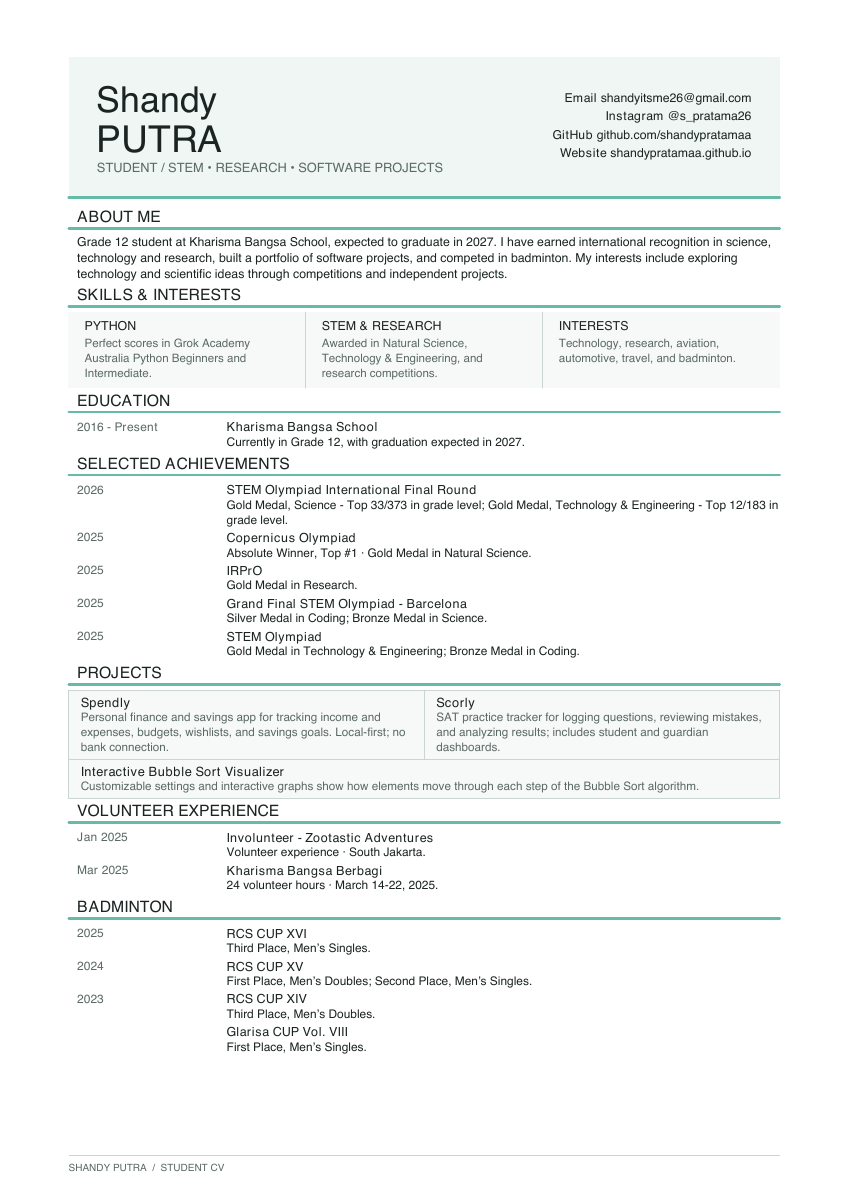
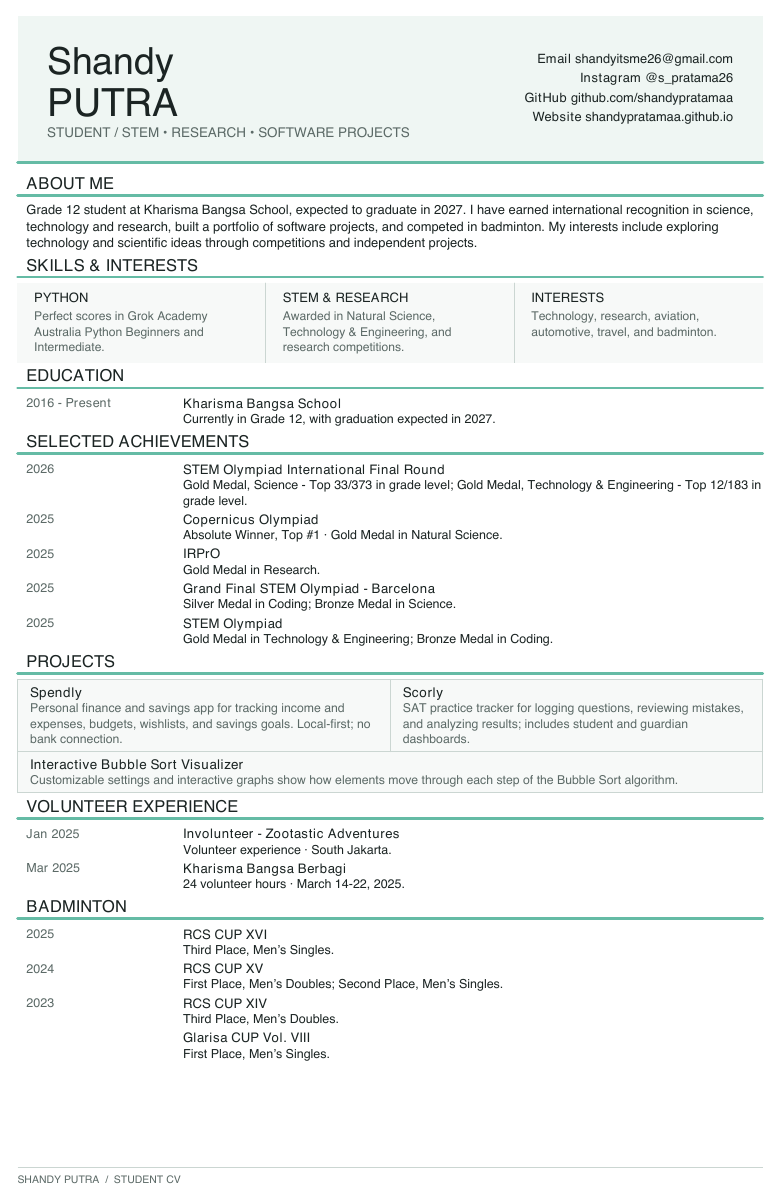
trimming CV file preview and download
Trimming white headers

Changed region(s): [[0.0308, 0.0308, 0.9846, 0.8633], [0.2154, 0.7708, 0.6462, 0.8942], [0.0308, 0.9558, 0.2769, 0.9867]]

diff --git a/src/styles.css b/src/styles.css
@@ -312,8 +312,8 @@ a.contact-card:hover,a.contact-card:focus-visible{background:var(--surface2)}
 .cv-preview-actions{display:flex;align-items:center;gap:12px;flex-shrink:0}
 .cv-preview-close{width:40px;height:40px;border:1px solid var(--line);background:transparent;color:var(--text);font:26px/1 Arial,sans-serif;cursor:pointer;transition:background .2s,color .2s}
 .cv-preview-close:hover{background:var(--teal);color:#07100f}
-.cv-preview-page{flex:1;min-height:0;overflow:auto;display:flex;justify-content:center;padding:22px;background:#1a2020}
-.cv-preview-page img{display:block;width:min(100%,680px);height:max-content;object-fit:contain;align-self:flex-start;background:#fff;box-shadow:0 12px 42px rgba(0,0,0,.35)}
+.cv-preview-page{flex:1;min-height:0;overflow:auto;display:flex;justify-content:center;padding:12px;background:#1a2020}
+.cv-preview-page img{display:block;width:min(100%,760px);height:max-content;object-fit:contain;align-self:flex-start;background:#fff;box-shadow:0 12px 42px rgba(0,0,0,.35)}
 @media(max-width:600px){.hero-actions{gap:9px;margin-top:25px}.hero-actions .button{min-width:0;min-height:44px;padding:0 13px;gap:18px;font-size:11px}.cv-preview-backdrop{padding:8px}.cv-preview-dialog{height:94svh}.cv-preview-header{align-items:flex-start;padding:15px 13px;gap:10px}.cv-preview-header h2{font-size:18px}.cv-preview-header .eyebrow{font-size:8px}.cv-preview-actions{gap:7px}.cv-preview-actions .button{min-height:38px;padding:0 10px;gap:8px;font-size:10px}.cv-preview-close{width:36px;height:36px;flex-basis:36px}}
 
 /* Achievements page: compact summary, featured records, and a year timeline. */
